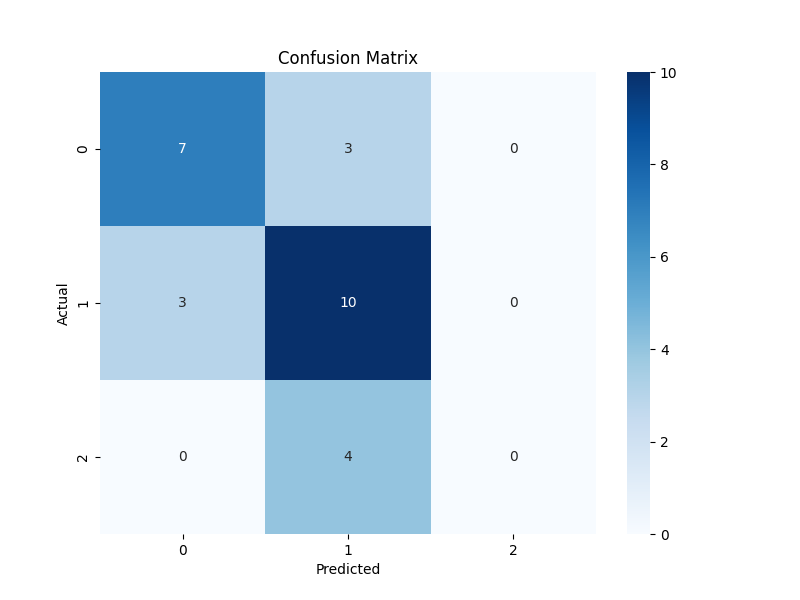
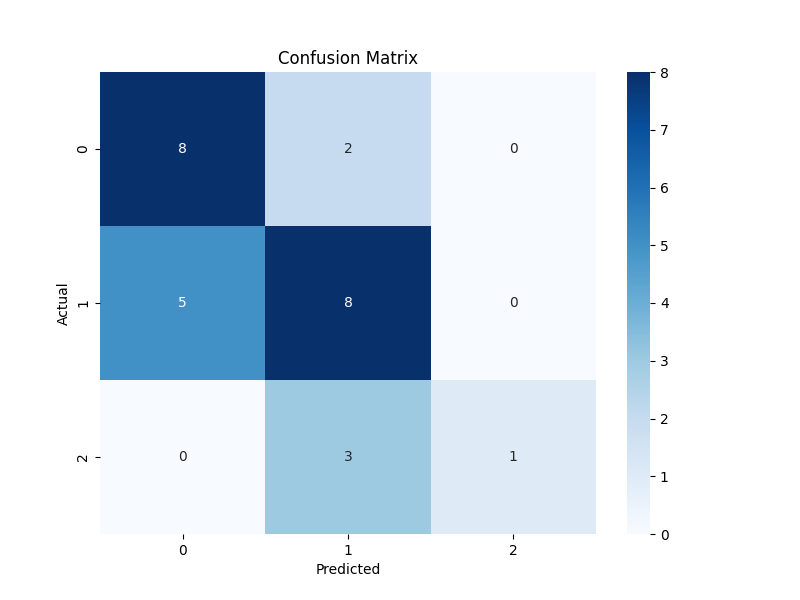
adding user defined features for tyler, offense, and defense

diff --git a/src/classify.py b/src/classify.py
@@ -13,6 +13,19 @@ import graphs
 
 scores = []
 
+def user_chosen_features(x, choice) -> DataFrame:
+    if choice == "saehej":
+        pass
+    elif choice == "tyler":
+        features = ['Total Offense', 'Scoring Offense', 'Total Defense', 'Scoring Defense', 'Turnover Margin']
+    elif choice == "offense":
+        features = ['Total Offense', 'Rushing Offense', 'Passing Offense', 'Team Passing Efficiency', 'Scoring Offense']
+    elif choice == "defense":
+        features = ['Total Defense', 'Rushing Defense', 'Passing Yards Allowed', 'Team Passing Efficiency Defense', 'Scoring Defense']
+
+    return x[features].copy()
+
+
 def get_rfe_features(x, y, estimator_type="support_vector_machine", num_features=5) -> DataFrame:
     """
     This function performs recursive feature elimination using the estimator passed in
@@ -69,7 +82,15 @@ def knn(x, y, k) -> None:
     decision_tree_features = get_rfe_features(x, y, estimator_type="decision_tree_classifier", num_features=5)
     feature_selection_method_list.append("RFE-Decision_Tree_Classifier")
 
-    for features, feature_selection in zip([svc_features, logistic_regression_features, decision_tree_features], feature_selection_method_list):
+    # user defined features
+    tyler_features = user_chosen_features(x, "tyler")
+    feature_selection_method_list.append("User_Defined_Tyler")
+    offense_features = user_chosen_features(x, "offense")
+    feature_selection_method_list.append('User_Defined_Offense')
+    defense_features = user_chosen_features(x, "defense")
+    feature_selection_method_list.append('User_Defined_Defense')
+
+    for features, feature_selection in zip([svc_features, logistic_regression_features, decision_tree_features, tyler_features, offense_features, defense_features], feature_selection_method_list):
         with open(f"../data/logs/{feature_selection}_{k}.log", "w") as f:
             f.write(f"Top 5 features: {features.columns.to_numpy()}\n\n")
 
